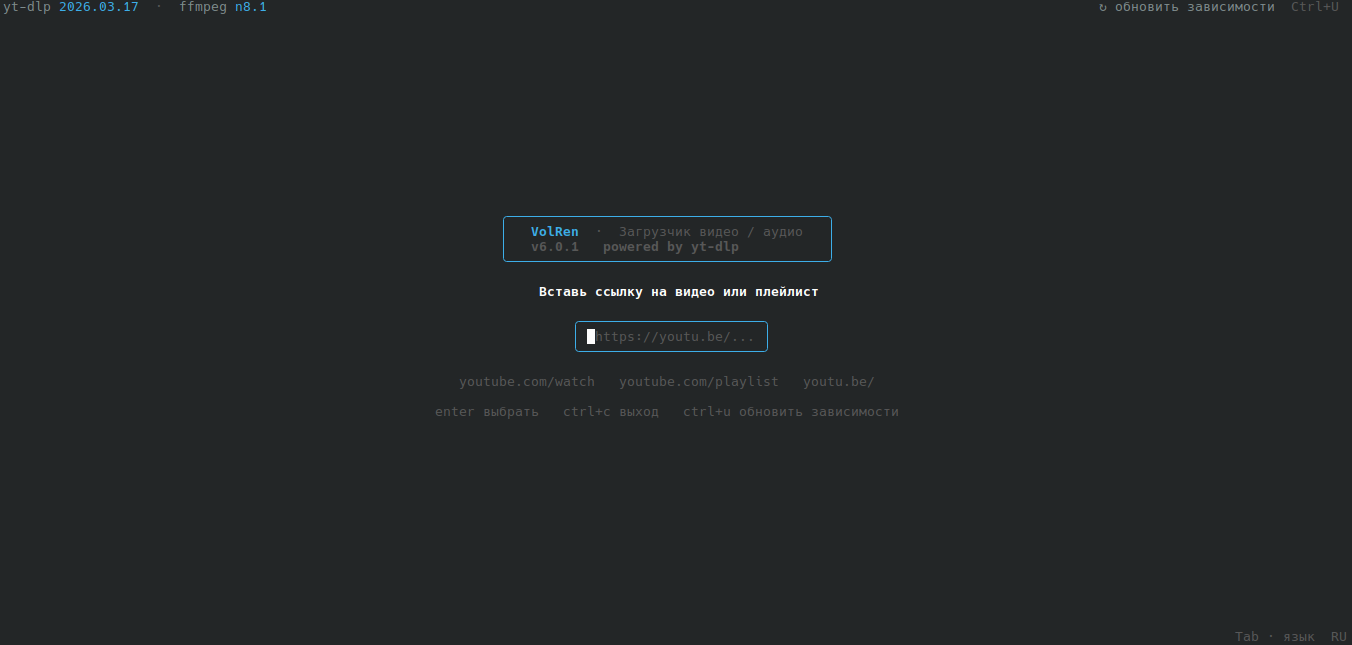
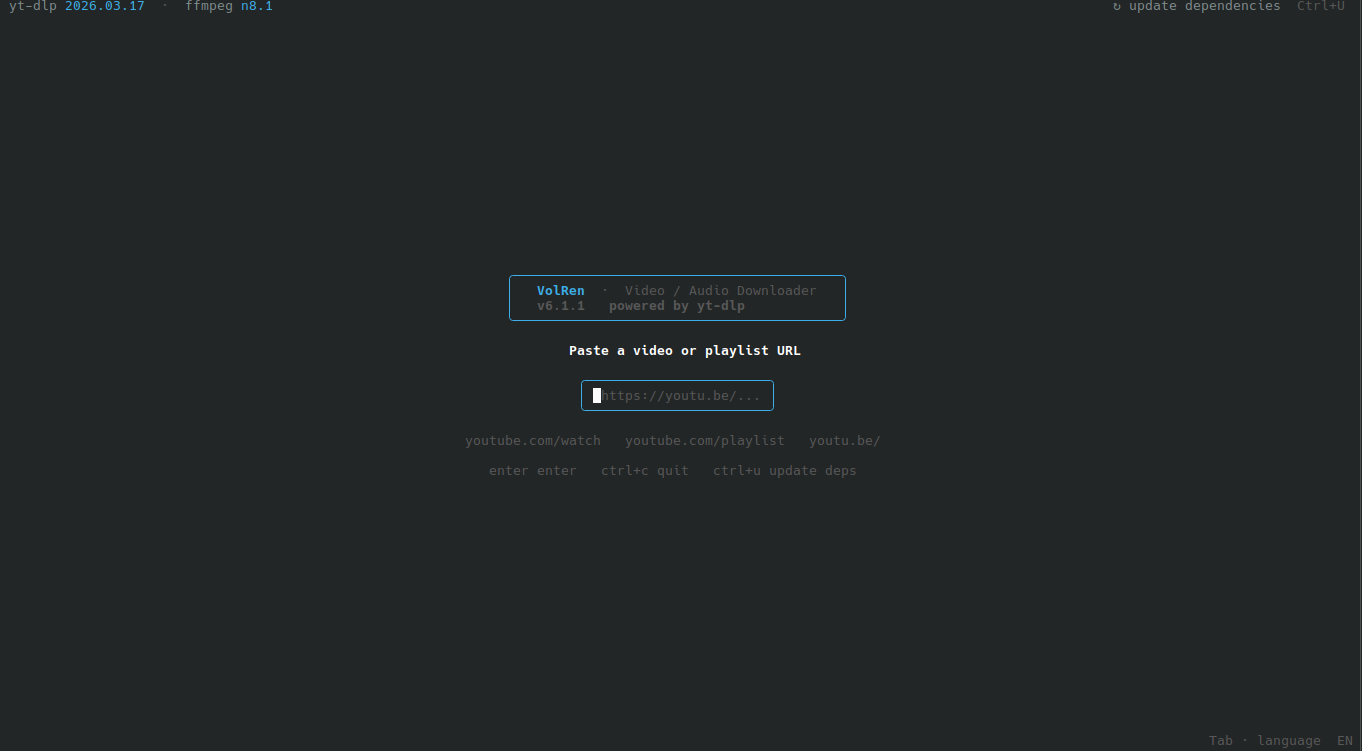
Update assets

Changed region(s): [[0.3107, 0.3411, 0.6524, 0.6512], [0.8077, 0.0, 1.0, 1.0], [0.0, 0.0, 0.2175, 0.031]]

diff --git a/README.md b/README.md
@@ -2,7 +2,11 @@
 
 <div align="center">
 
-![youtube downloader screenshot](assets/youtubedownloader.png)
+<p align="center">
+  <div style="width:450px; height:250px; overflow:hidden;">
+    <img src="assets/Downloader.png" style="width:100%;"/>
+  </div>
+</p>
 
 **Download video and audio from YouTube through a terminal UI.**
 
@@ -16,6 +20,8 @@
 ---
 
 ## About
+
+![youtube downloader screenshot](assets/youtubedownloader.png)
 
 **VolRen Downloader** is a compact YouTube downloader with an interactive TUI built on [Bubble Tea v2](https://charm.land/bubbletea/v2). It ships as a single Go binary. On first run it pulls **yt-dlp** into `_deps/` (and **ffmpeg** on Windows when you opt in).
 
